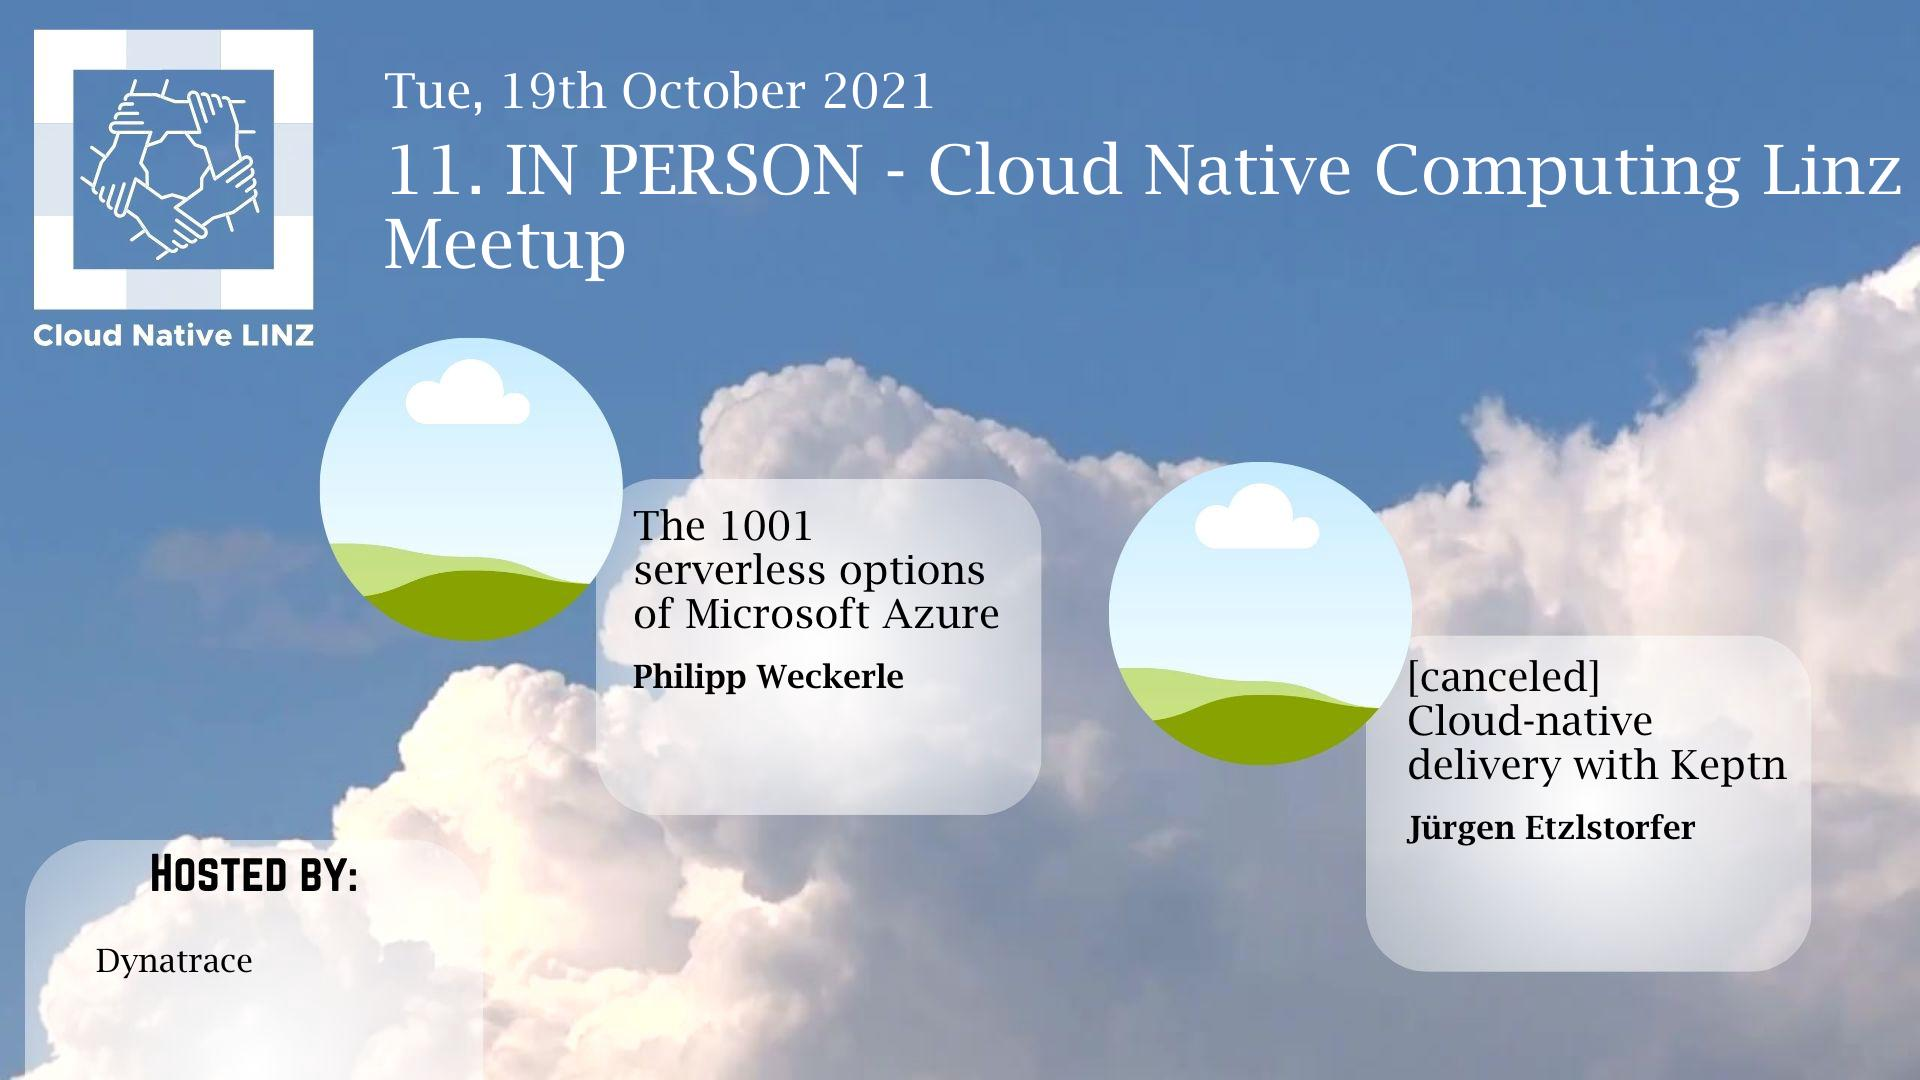
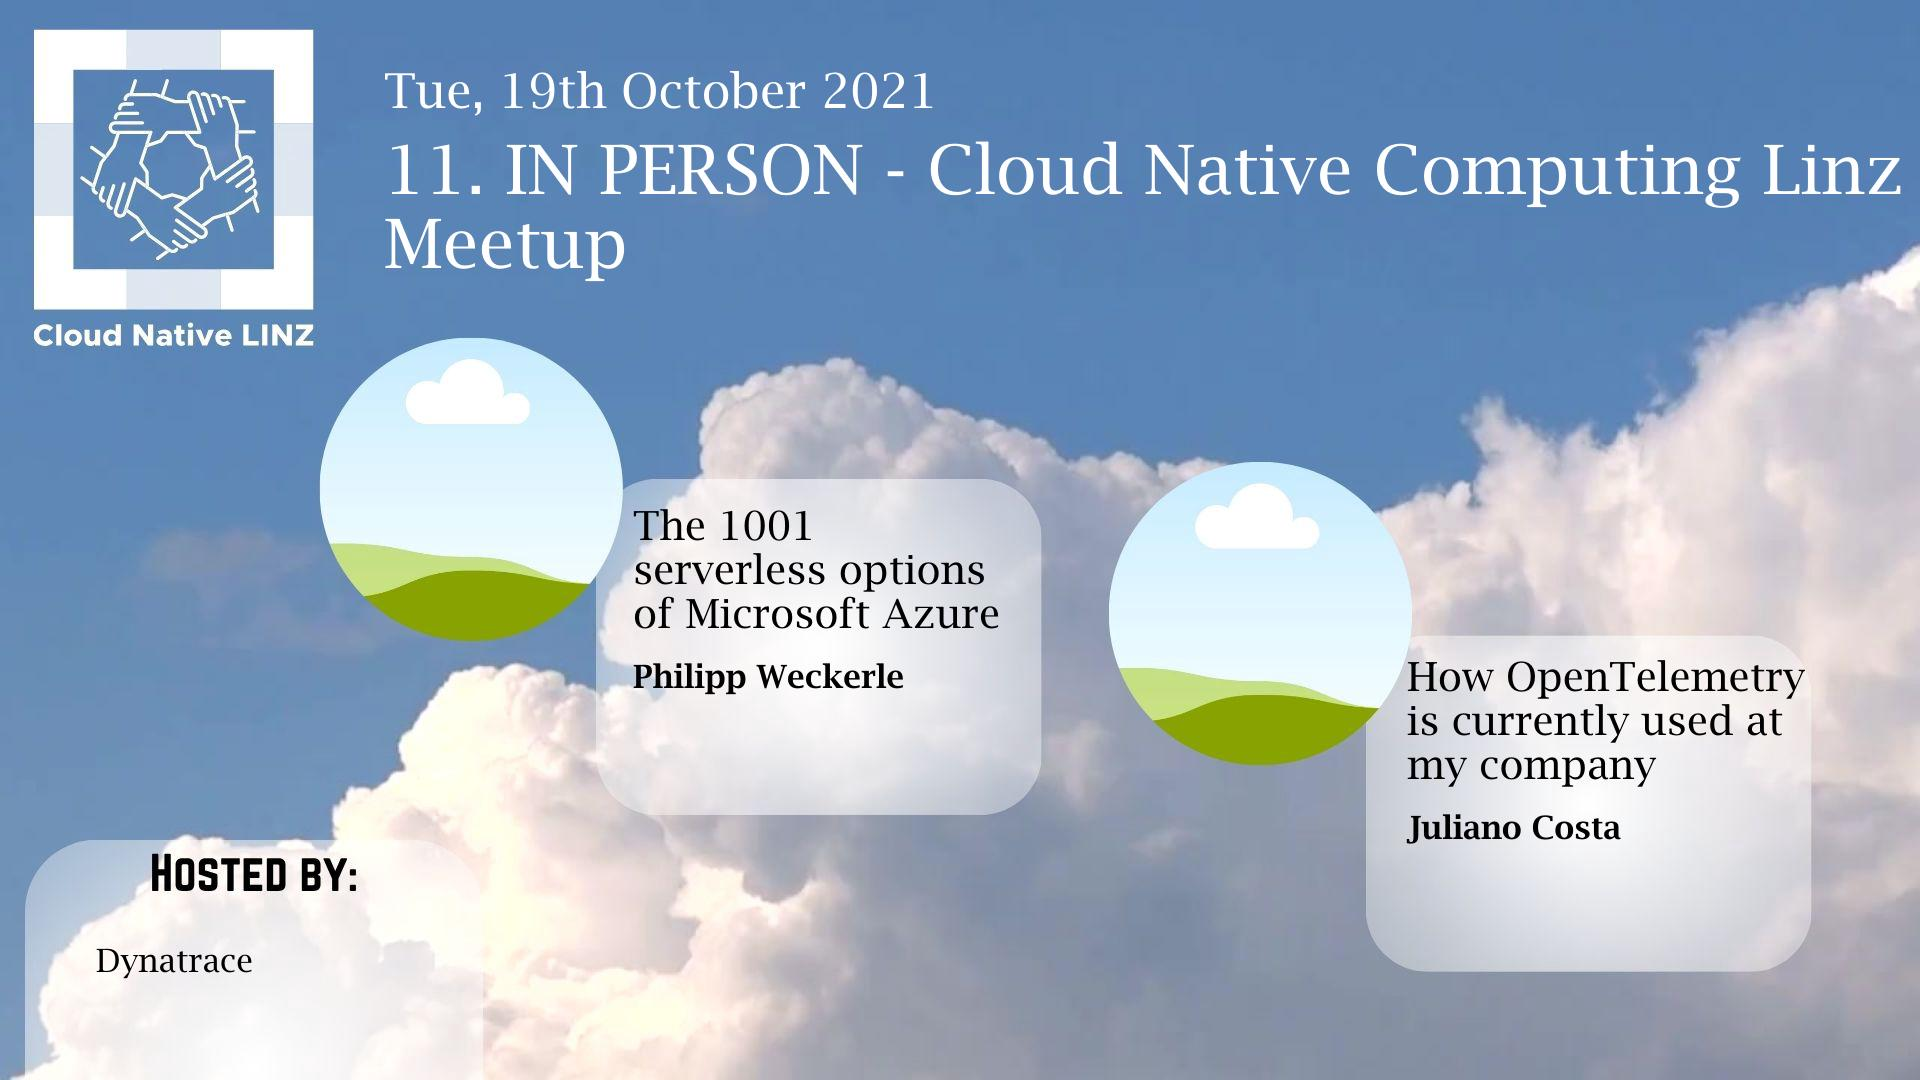
Enhance image generation workflow: support bulk generation for all events and update README for clarity

Changed region(s): [[0.7188, 0.6111, 0.9375, 0.7944]]

diff --git a/cmd/main.go b/cmd/main.go
@@ -204,6 +204,100 @@ func loadEventData(eventID string) (*types.EventData, error) {
 	return nil, fmt.Errorf("event with ID %s not found in events.yml", eventID)
 }
 
+// loadAllEvents loads all events from events.yml and returns them as a slice of EventData
+func loadAllEvents() ([]types.EventData, error) {
+	eventsData, err := os.ReadFile("_data/events.yml")
+	if err != nil {
+		return nil, fmt.Errorf("error reading events.yml: %w", err)
+	}
+
+	var events types.EventsYAML
+	if err = yaml.Unmarshal(eventsData, &events); err != nil {
+		return nil, fmt.Errorf("error parsing events.yml: %w", err)
+	}
+
+	var allEventData []types.EventData
+	for _, event := range events {
+		eventData := types.EventData{}
+
+		if len(event.Talks) > 0 {
+			eventData.Speaker1Title = event.Talks[0].Title
+			eventData.Speaker1Name = event.Talks[0].Speaker
+			eventData.Speaker1Image = event.Talks[0].Image
+		}
+		if len(event.Talks) > 1 {
+			eventData.Speaker2Title = event.Talks[1].Title
+			eventData.Speaker2Name = event.Talks[1].Speaker
+			eventData.Speaker2Image = event.Talks[1].Image
+		}
+		if event.Host != "" {
+			eventData.Sponsor = event.Host
+		}
+		if event.Date != "" {
+			eventData.Date = event.Date
+		}
+		if event.Title != "" {
+			eventData.EventTitle = event.Title
+		}
+
+		// Store the event ID for filename generation
+		eventData.Title = fmt.Sprintf("%d", event.ID)
+
+		allEventData = append(allEventData, eventData)
+	}
+
+	return allEventData, nil
+}
+
+// generateImageForEvent generates an image for a single event
+func generateImageForEvent(eventData *types.EventData, templatePath, backgroundPath, overlayPaths, outputDir string) error {
+	// Load background image
+	background, err := loadBackgroundImage(templatePath, backgroundPath)
+	if err != nil {
+		return fmt.Errorf("error loading background image: %w", err)
+	}
+
+	// Process background and overlay images
+	rgbaFinalImage, err := processImages(background, overlayPaths)
+	if err != nil {
+		return fmt.Errorf("error processing images: %w", err)
+	}
+
+	// Load template if provided
+	var template *types.Template
+	if templatePath != "" {
+		tmpl, err := loadTemplate(templatePath)
+		if err != nil {
+			return fmt.Errorf("error loading template: %w", err)
+		}
+		template = tmpl
+	}
+
+	// Render text using template if provided
+	if err := renderTextFromTemplate(templatePath, eventData, rgbaFinalImage, template); err != nil {
+		return fmt.Errorf("error rendering text: %w", err)
+	}
+
+	// Add speaker images if available
+	if eventData != nil && template != nil {
+		if err := addSpeakerImages(rgbaFinalImage, eventData, template); err != nil {
+			log.Printf("Warning: Error adding speaker images for event %s: %v", eventData.Title, err)
+		}
+	}
+
+	// Determine output path
+	finalOutputPath := fmt.Sprintf("%s/%s.jpg", outputDir, eventData.Title)
+
+	// Save final image
+	err = utils.SaveImage(finalOutputPath, rgbaFinalImage)
+	if err != nil {
+		return fmt.Errorf("error saving final image: %w", err)
+	}
+
+	fmt.Printf("Image generated successfully for event %s: %s\n", eventData.Title, finalOutputPath)
+	return nil
+}
+
 // renderTextElement renders a text element with proper wrapping and positioning
 func renderTextElement(textRenderer *renderer.TextRenderer, img *image.RGBA, element types.TextElement, imgWidth, imgHeight int, lineSpacing float64) error {
 	boxX := int(element.Position.X * float64(imgWidth))
@@ -319,14 +413,48 @@ func main() {
 
 	flag.Parse()
 
+	// Check templates directory
+	checkTemplatesDirectory()
+
+	// Ensure artifacts directory exists
+	artifactsDir := "artifacts"
+	if _, err := os.Stat(artifactsDir); os.IsNotExist(err) {
+		if err := os.MkdirAll(artifactsDir, 0755); err != nil {
+			log.Fatalf("Error creating artifacts directory: %v", err)
+		}
+	}
+
+	// If no event ID is provided or empty, generate images for all events
+	if *eventID == "" {
+		fmt.Println("No event ID provided. Generating images for all events...")
+
+		allEventData, err := loadAllEvents()
+		if err != nil {
+			log.Fatalf("Error loading all events: %v", err)
+		}
+
+		fmt.Printf("Generating images for %d events...\n", len(allEventData))
+
+		successCount := 0
+		for _, eventData := range allEventData {
+			err := generateImageForEvent(&eventData, *templatePath, *backgroundPath, *overlayPaths, artifactsDir)
+			if err != nil {
+				log.Printf("Error generating image for event %s: %v", eventData.Title, err)
+			} else {
+				successCount++
+			}
+		}
+
+		fmt.Printf("Successfully generated %d out of %d images.\n", successCount, len(allEventData))
+		return
+	}
+
+	// Generate image for single event (original logic)
 	// Setup output path and artifacts directory
 	finalOutputPath, err := setupOutputPath(*outputPath, *eventID)
 	if err != nil {
 		log.Fatalf("Error setting up output path: %v", err)
 	}
-
-	// Check templates directory
-	checkTemplatesDirectory()
 
 	// Load background image
 	background, err := loadBackgroundImage(*templatePath, *backgroundPath)

diff --git a/README.md b/README.md
@@ -62,7 +62,8 @@ go-image-generator
 ## Features
 - Generate images using a JSON template for layout, fonts, and colors
 - Dynamically populate speaker, talk, and sponsor information from a YAML event file (`_data/events.yml`)
-- Select event data by event ID using the `--id` CLI flag
+- **Bulk generation**: Generate images for all events in `_data/events.yml` when no event ID is specified
+- Select event data by event ID using the `--id` CLI flag for single event generation
 - **Speaker images**: Automatically render speaker profile pictures from URLs or local files
 - **Advanced text rendering**: Support for dual speakers with title/name pairs and intelligent text wrapping
 - **Date formatting**: Automatic parsing and formatting of event dates
@@ -75,29 +76,35 @@ To generate an image, run the application with the necessary command-line argume
 
 ### Command-Line Arguments
 - `--template`: Path to the JSON template file (required for layout, fonts, and colors)
-- `--output`: Path to save the generated image (e.g., `file.jpg`)
-- `--id`: (Optional) Event ID from `_data/events.yml` to use for speaker/talk/sponsor text
+- `--output`: Path to save the generated image (e.g., `file.jpg`) - only used for single event generation
+- `--id`: (Optional) Event ID from `_data/events.yml` to use for speaker/talk/sponsor text. If not provided or empty, generates images for all events
 - `--background`: (Optional) Path to a background image (used only if no template is provided)
 - `--overlays`: (Optional) Comma-separated list of overlay image paths
 
 ### Example Commands
 
-**Basic usage with event data:**
+**Generate images for all events:**
+```bash
+go run cmd/main.go --template assets/templates/template.json
+```
+This will generate images for all events in `_data/events.yml` and save them to the `artifacts/` directory with filenames like `1.jpg`, `2.jpg`, etc.
+
+**Generate image for a specific event:**
 ```bash
 go run cmd/main.go --template assets/templates/template.json --id 41
 ```
 This will use the layout and style from the template, and populate the speaker, talk, and sponsor fields from the event with ID 41 in `_data/events.yml`. Speaker images will be automatically included if specified in the event data.
 
-**Custom output path:**
+**Custom output path for single event:**
 ```bash
 go run cmd/main.go --template assets/templates/template.json --id 42 --output my-custom-image.jpg
 ```
 
 **Using template without event data:**
 ```bash
-go run cmd/main.go --template assets/templates/template.json
+go run cmd/main.go --template assets/templates/template.json --id ""
 ```
-If `--id` is not provided, the text fields from the template will be used as defaults.
+If `--id` is empty or not provided, images will be generated for all events. If you want to use template defaults without any event data, you would need to modify the code accordingly.
 
 **Batch processing multiple events:**
 ```bash
@@ -106,6 +113,23 @@ If `--id` is not provided, the text fields from the template will be used as def
 This will generate images for events with IDs 1 through 50.
 
 You can find the output images in the `artifacts/` directory after running the command.
+
+## GitHub Actions Workflow
+
+The project includes a GitHub Actions workflow (`.github/workflows/generate-image.yml`) for automated image generation:
+
+### Manual Trigger (workflow_dispatch)
+You can manually trigger the workflow from the GitHub Actions tab:
+- **Leave Event ID empty**: Generates images for all events in `_data/events.yml`
+- **Specify Event ID**: Generates image for a single event (e.g., `42`)
+
+### Automatic Trigger
+The workflow also runs automatically on push to the `main` branch, generating images for all events.
+
+### Artifacts
+Generated images are uploaded as GitHub Actions artifacts:
+- **All events**: Artifact named `generated-images-all`
+- **Single event**: Artifact named `generated-image-{ID}` (e.g., `generated-image-42`)
 
 ## Data Files
 - **Template:** `assets/templates/template.json` (controls layout, fonts, colors, positioning, and speaker image placement)
@@ -135,7 +159,17 @@ Speaker images can be either local files (in `assets/speaker-images/`) or remote
 
 ## Batch Processing
 
-The project includes a batch processing script (`run_batch.sh`) for generating multiple images efficiently:
+The project supports batch processing in multiple ways:
+
+### Built-in Bulk Generation
+Generate images for all events with a single command:
+```bash
+go run cmd/main.go --template assets/templates/template.json
+```
+This will automatically process all events in `_data/events.yml` and generate corresponding images.
+
+### Batch Script for Range Processing
+The project also includes a batch processing script (`run_batch.sh`) for generating images within a specific range:
 
 ```bash
 # Generate images for events 1-10
